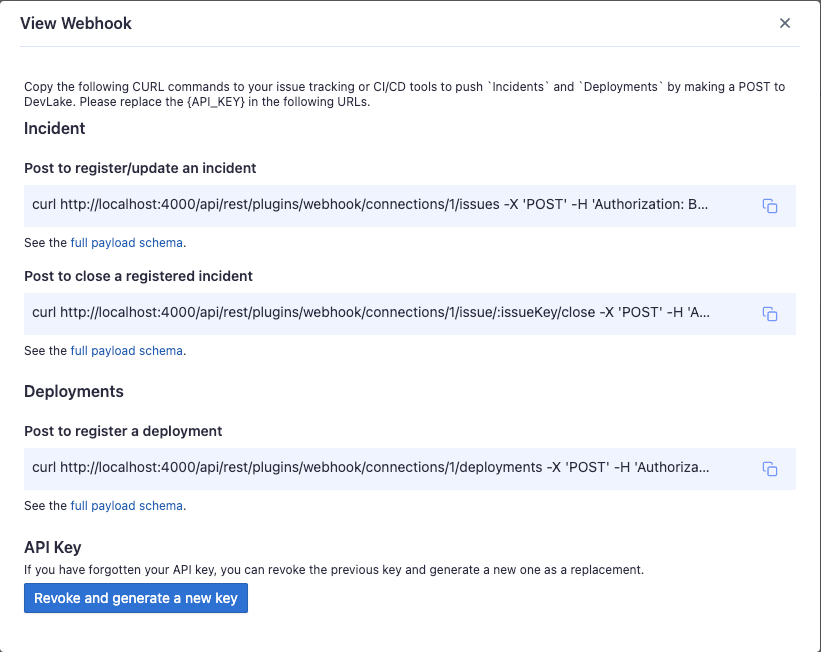
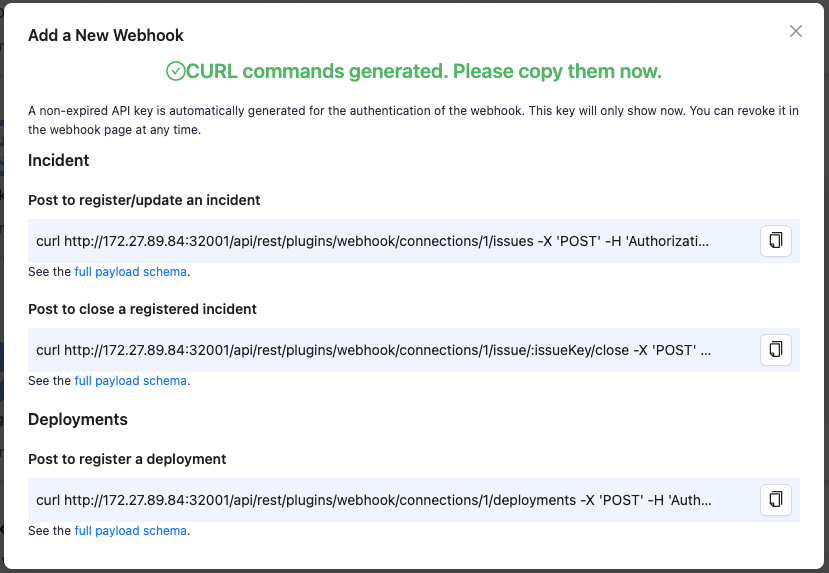
docs: update webhook manuals

diff --git a/docs/Configuration/webhook.md b/docs/Configuration/webhook.md
@@ -1,30 +1,37 @@
 ---
 title: "Webhooks"
 sidebar_position: 25
-description: Config UI instruction for Webhook
+description: Config UI instructions for Webhook
 ---
 
 Visit config-ui: `http://{localhost}:4000`.
 
 ### Step 1 - Add a new incoming webhook
 
-Go to the 'Data Connections' page. Create a webhook.
+Go to the 'Connections' page. Create a webhook with a unique name.
 
-![webhook-add-data-connections](/img/ConfigUI/webhook-add-data-connections.png)
+![webhook-add-data-connections](images/webhook-add.png)
 
-We recommend that you give your webhook connection a unique name so that you can identify and manage where you have used it later.
 
 ### Step 2 - Create webhooks connection
 
 Click on Generate POST URL, and you will find three webhook URLs. 
+
 ![webhook-connection1](images/webhook-connection1.png)
 
-Revoke and generate a new key. Copy the ones that suit your usage into your CI/CD or issue-tracking systems. You can always come back to the webhook page to copy the URLs later on.
-![webhook-connection2](images/webhook-connection2.png)
+Copy the ones that suit your usage into your CI/CD or issue-tracking systems. You can always come back to the webhook page to copy the URLs later on.
+
+A non-expired API key is auto-generated for the authentication of the webhook. This API key only shows in the payload when you create the webhook. However, you can always revoke and generate a new token when you view the webhook details.
+
+See the [full payload schema](../Plugins/webhook.md) of webhooks.
 
 ### Step 3 - Use webhook in a project
 
-Create a Project first, choose Incoming Webhooks, then you can `Add a Webhook` or `Select Existing Webhooks`.
+If you want to use webhook data to measure [DORA metrics](../DORA.md), you have to associate it with a DevLake project.
+
+- Go to the 'Incoming Webhooks' tab on a project's page.
+- Add webhook by selecting the existing webhook. 
+- Go to the project's blueprint page and click 'Collect Data'. This will trigger the DORA plugin to measure DORA metrics with the data collected by the [data connections and webhooks associated with this project](HowToOrganizeDevlakeProjects.md#2-why-is-it-important-to-organize-projects).
 
 ![project-webhook-use](/img/ConfigUI/project-webhook-use.png)
 
@@ -32,11 +39,11 @@ Create a Project first, choose Incoming Webhooks, then you can `Add a Webhook` o
 
 For the new webhook to work, it needs to be accessible from the DevOps tools from which you would like to push data to DevLake. If DevLake is deployed in your private network and your DevOps tool (e.g. CircleCI) is a cloud service that lives outside of your private network, then you need to make DevLake's webhook accessible to the outside cloud service.
 
-There're many tools for this:
+There are many tools for this:
 
 - For testing and quick setup, [ngrok](https://ngrok.com/) is a useful utility that provides a publicly accessible web URL to any locally hosted application. You can put DevLake's webhook on the internet within 5 mins by following ngrok's [Getting Started](https://ngrok.com/docs/getting-started) guide. Note that, when posting to webhook, you may need to replace the `localhost` part in the webhook URL with the forwarding URL that ngrok provides.
-- If you prefer DIY, please checkout open-source reverse proxies like [fatedier/frp](https://github.com/fatedier/frp) or go for the classic [nginx](https://www.nginx.com/).
+- If you prefer DIY, please check out open-source reverse proxies like [fatedier/frp](https://github.com/fatedier/frp) or go for the classic [nginx](https://www.nginx.com/).
 
 ## Troubleshooting
 
-If you run into any problem, please check the [Troubleshooting](/Troubleshooting/Configuration.md) or [create an issue](https://github.com/apache/incubator-devlake/issues)
+If you run into any problems, please check the [Troubleshooting](/Troubleshooting/Configuration.md) or [create an issue](https://github.com/apache/incubator-devlake/issues).
